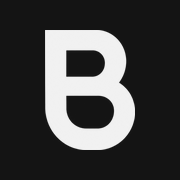
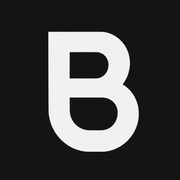
파비콘·홈 화면 아이콘·로딩 B 마크를 시각 중심으로 보정 (오른쪽 3.8%, 아래 1.5%)
Claude-Session: https://claude.ai/code/session_01Gpd5Z6PjAkLEuUtx3h4xAu

diff --git a/css/style.css b/css/style.css
@@ -580,8 +580,8 @@ img {
   height: calc(var(--loading-mark-size) * 4 / 3);
   margin: auto;
   background: var(--color-text-sub);
-  -webkit-mask: url("../images/brand/b-mark.png") center / contain no-repeat;
-  mask: url("../images/brand/b-mark.png") center / contain no-repeat;
+  -webkit-mask: url("../images/brand/b-mark.png") center / auto 100% no-repeat;
+  mask: url("../images/brand/b-mark.png") center / auto 100% no-repeat;
   opacity: 0.25;
 }
 
